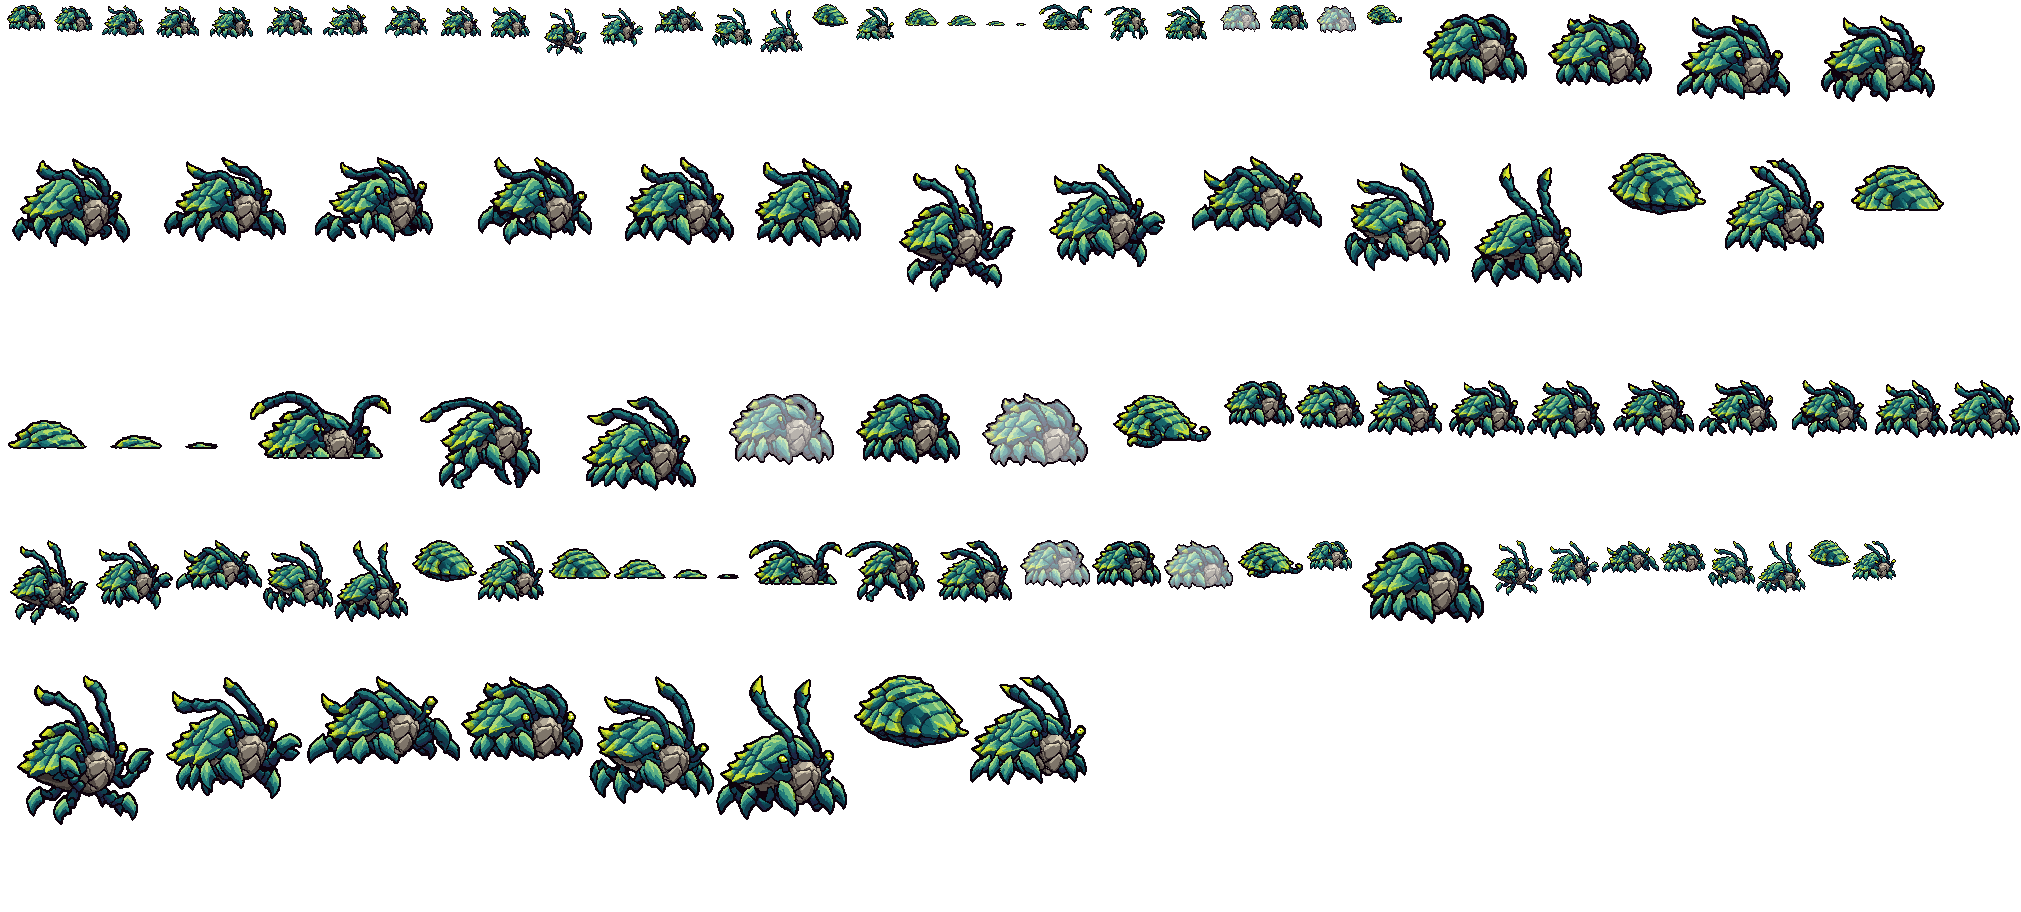
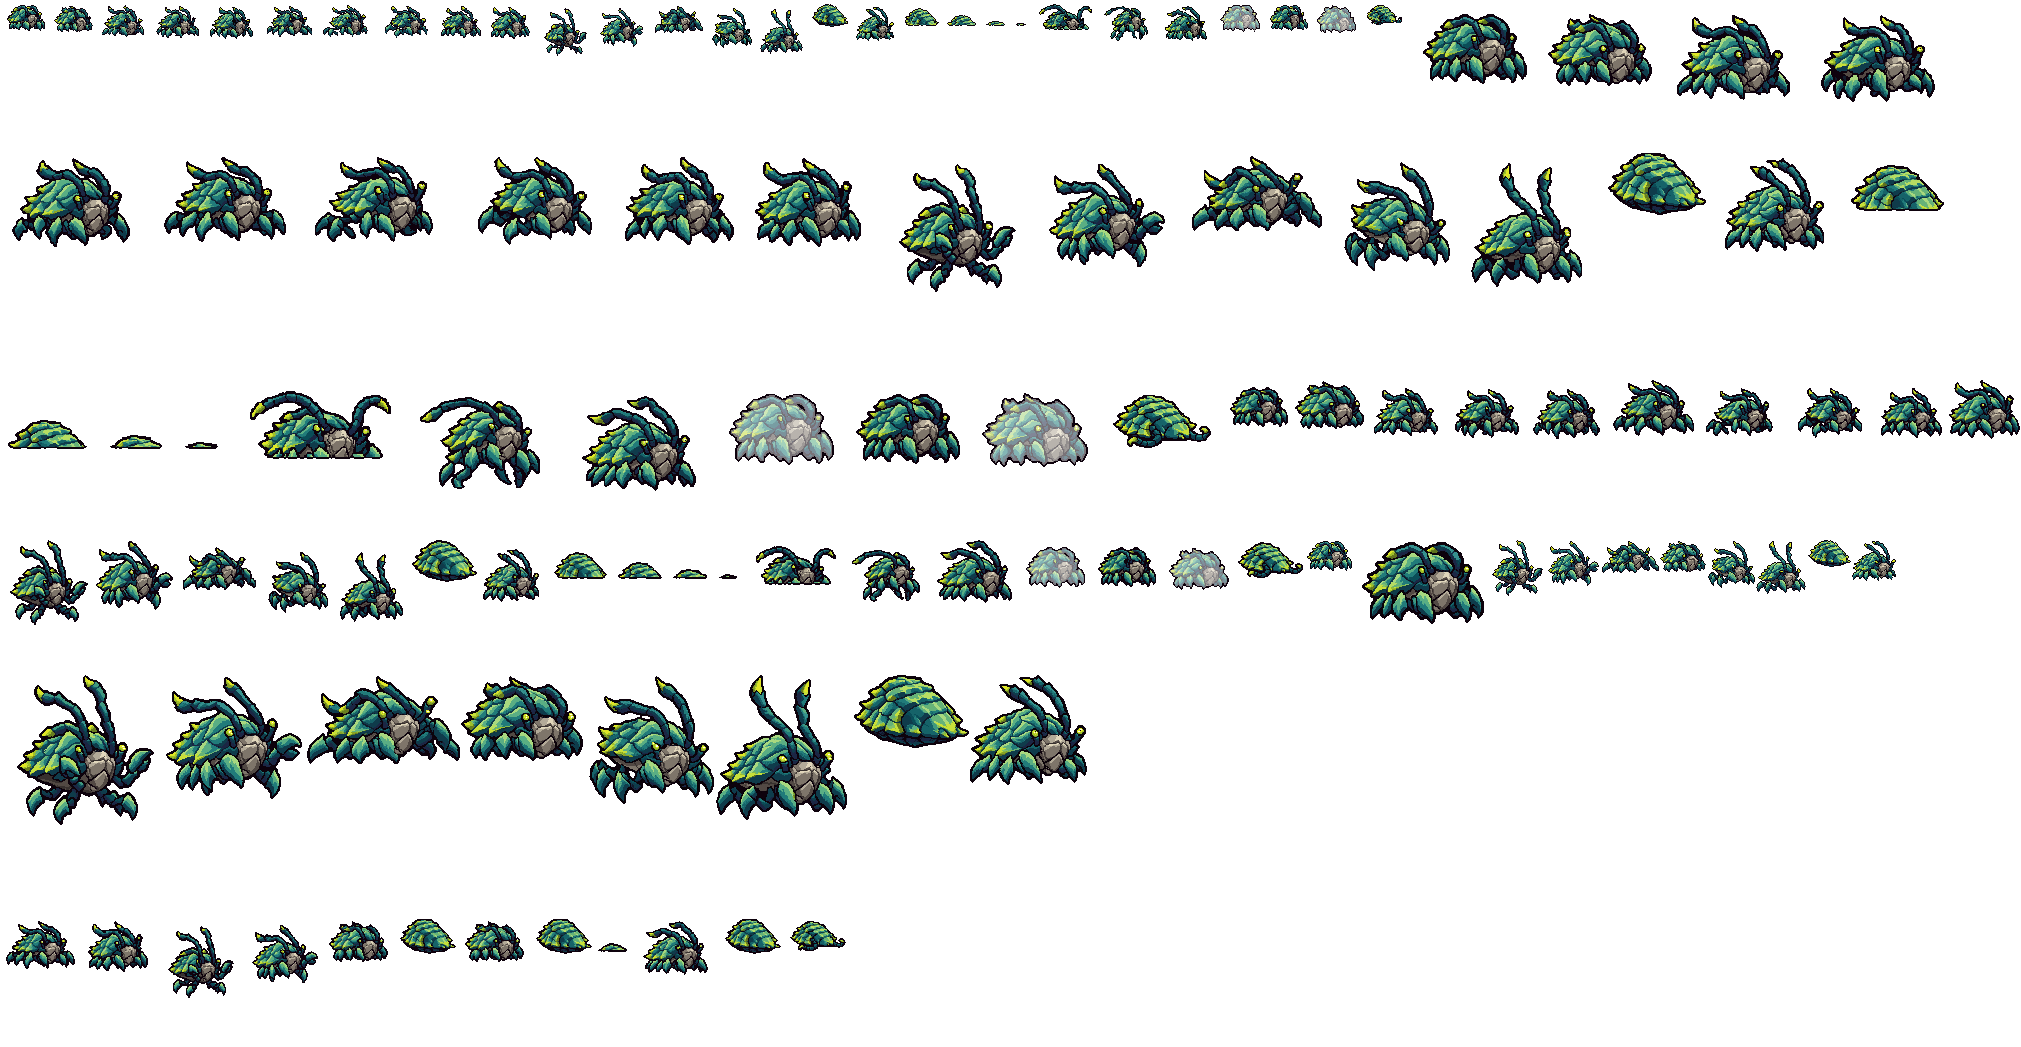
迅捷蟹：界面用的低配帧也缩到 GPT 的 85 %（用户：「这个缩」）
GPT 的 29929a743 只缩了高清 / 标准帧，选人位、选中动画、图鉴用的 lo_ 帧还是原来的大小（界面待机 70x46，战斗里缩完
是 58x40 那么大）。scuttlecrab_idle_base.py 改名 scuttlecrab_shrink_rest.py，补上：每一帧 lo_ 按 tools/art/ppu_hd.py
add_lo 的算法从它的高清帧重算（sheetkit.lo_of；在 GPT 改之前的迅捷蟹上它算出的 30 帧 lo_ 和原来逐像素一样），
lo_idle_base 取待机高清第 0 帧；装不进原矩形的放到图集下面（912 -> 1047 行）。31 帧重写，hero_reels.py --hero
scuttlecrab 重建界面的待机 / BP 动图。高清 / 标准帧、灵魂图都不变。

Changed region(s): [[0.0, 0.3684, 1.0, 0.9518], [0.0, 0.0, 0.9664, 0.307], [0.0, 0.4605, 0.0935, 0.4912]]

diff --git a/tools/fix/gpt784_review/scuttlecrab_shrink_rest.py b/tools/fix/gpt784_review/scuttlecrab_shrink_rest.py
@@ -1,0 +1,64 @@
+"""The parts of tft_scuttlecrab GPT's 85 % shrink missed (PR #784, 29929a743 「缩小迅捷蟹」; the user, 2026-11-19, on the
+UI frames left big: 「这个缩」).
+
+GPT's commit drew the crab's hd_ frames (the battlefield's, assets/source/ppu/scuttlecrab_*.png) and 1x frames at about
+85 % and wrote its idle reel from the smaller idle frame, but left
+- idle_base / hd_idle_base - hero_reels.py's frame 0, which every later run starts from, and the frame illaoi_souls.py
+  takes the crab's spirit from - pointing at the old, bigger idle frame: the ban/pick card (hd_bp) was the old crab;
+- every lo_ frame (the UI's: the pick slot, the pick moment, the encyclopedia ...) at the old size.
+This points idle_base / hd_idle_base at the idle's frame 0 as GPT drew it (the same rect, no pixel moved) and makes every
+lo_ frame again from its hd_ frame the way tools/art/ppu_hd.py's add_lo does (sheetkit.lo_of, a replica: on the crab's
+frames before GPT's commit it gives all 30 lo_ frames exactly), lo_idle_base from the idle's hd frame 0; a frame that no
+longer fits its rect gets one of its own below the sheet. Then run hero_reels.py --hero scuttlecrab (the reels' rects)
+and illaoi_souls.py.
+
+    python tools/fix/gpt784_review/scuttlecrab_shrink_rest.py            # write
+    python tools/fix/gpt784_review/scuttlecrab_shrink_rest.py --check    # exit 1 when not done
+"""
+import os
+import sys
+
+import numpy as np
+
+HERE = os.path.dirname(os.path.abspath(__file__))
+REPO = os.path.normpath(os.path.join(HERE, "..", "..", ".."))
+sys.path.insert(0, os.path.join(REPO, "tools", "fix", "xinzhao_galio_1119"))
+from sheetkit import Kit  # noqa: E402
+
+REELS = ("idle", "bp", "idle_base")       # hero_reels.py's tags: rects of the others' frames
+
+
+def main():
+    check = "--check" in sys.argv[1:]
+    k = Kit(REPO, "tft", "scuttlecrab")
+    todo = []
+    for pre in ("", "hd_"):
+        base, idle = k.anims[pre + "idle_base"]["frames"], k.anims[pre + "idle"]["frames"]
+        if len(base) != 1:
+            sys.exit(f"{pre}idle_base: {len(base)} frames, this tool knows the crab's single one")
+        if base[0]["data"] != idle[0]["data"]:
+            todo.append(pre + "idle_base")
+            base[0]["data"] = dict(idle[0]["data"])
+    jobs = [(t, i, t, i) for t in k.anims if not t.startswith(("hd_", "lo_")) and t not in REELS
+            for i in range(len(k.anims[t]["frames"]))]
+    jobs.append(("idle_base", 0, "idle", 0))              # lo_idle_base from the idle's frame 0
+    stale = 0
+    for t, i, src, j in jobs:
+        want = k.lo_of(k.cell(src, j).shape, k.cell("hd_" + src, j))
+        have = k.cell("lo_" + t, i)
+        if have.shape == want.shape and (have == want).all():
+            continue
+        stale += 1
+        k.put("lo_" + t, i, want)
+    if stale:
+        todo.append(f"{stale} lo_ frames")
+    if check:
+        print("tft_scuttlecrab: " + ("idle_base and lo_ frames as GPT's shrink wants" if not todo else "not done: " + ", ".join(todo)))
+        sys.exit(1 if todo else 0)
+    if todo:
+        k.save()
+    print("tft_scuttlecrab: " + ("wrote " + ", ".join(todo) if todo else "already done"))
+
+
+if __name__ == "__main__":
+    main()
